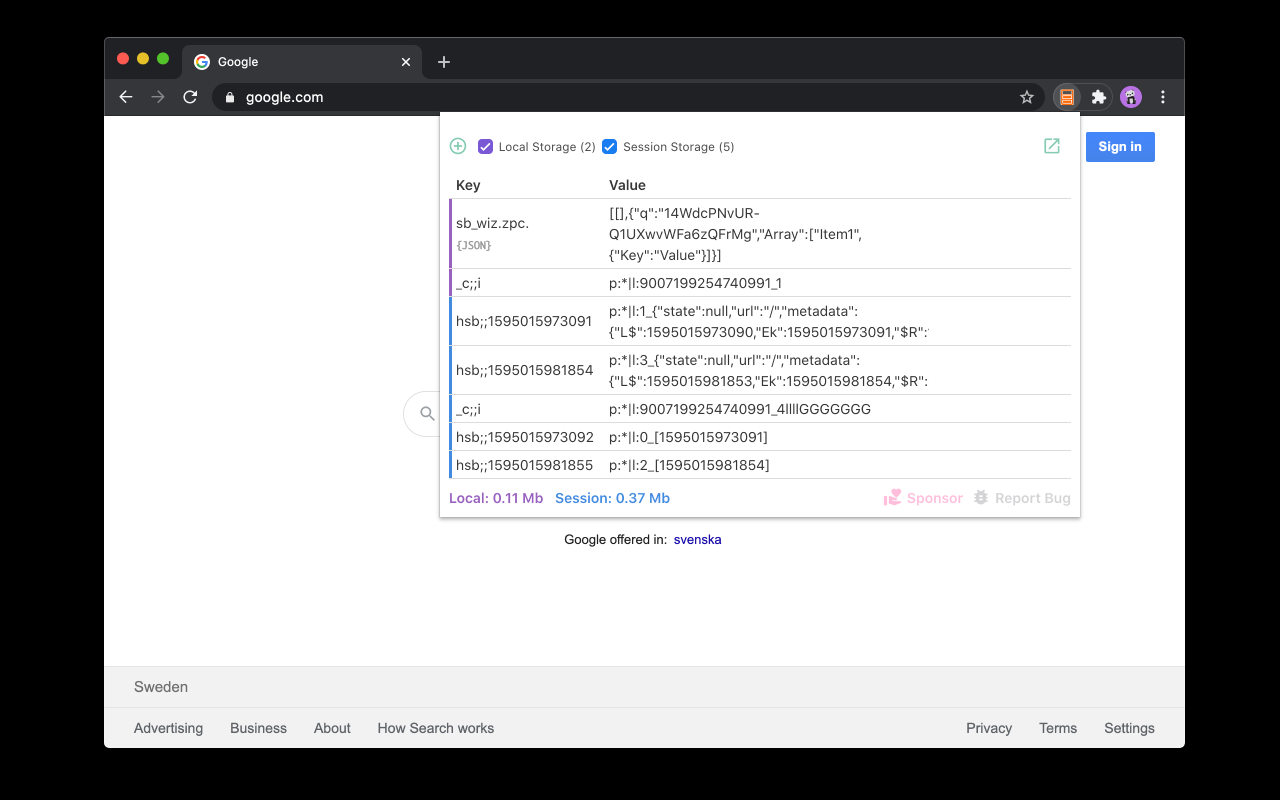
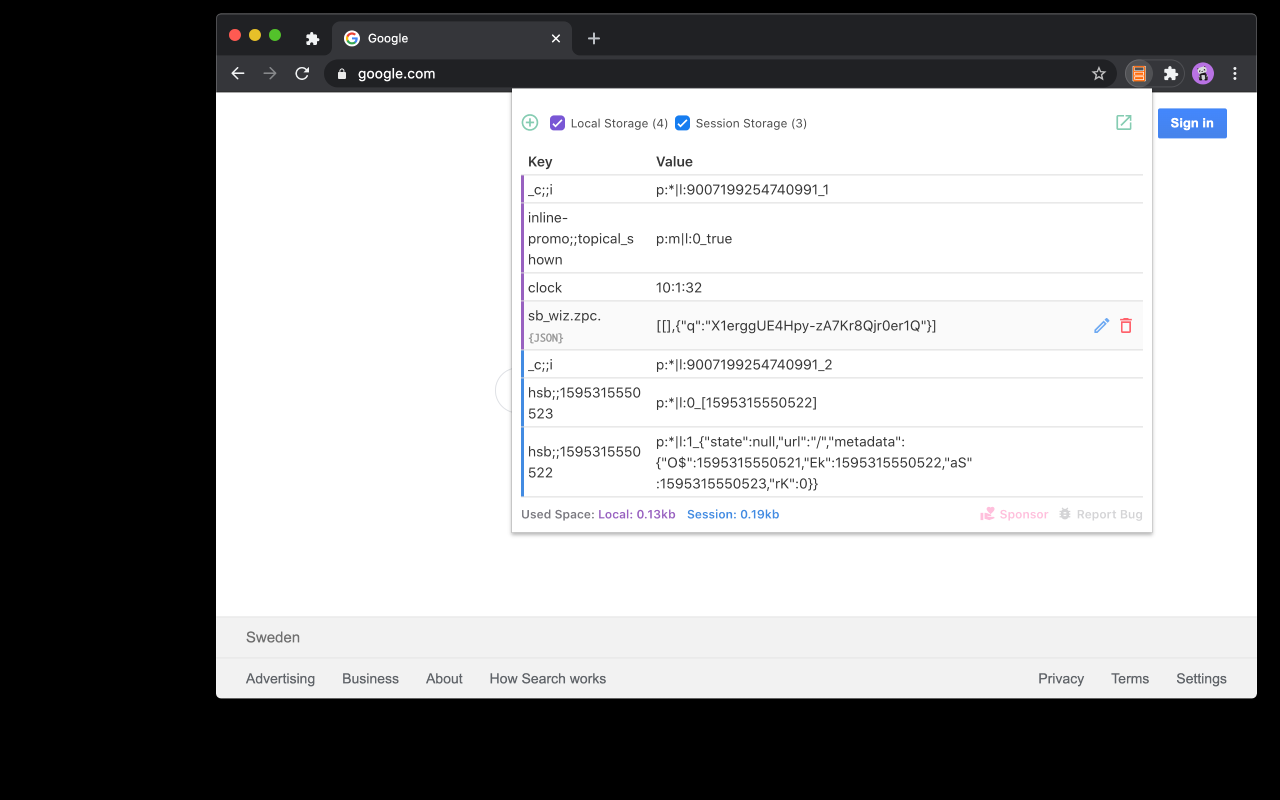
storage, favorite item always on top

Changed region(s): [[0.0625, 0.0, 1.0, 0.9375]]

diff --git a/src/popup/Popup.vue b/src/popup/Popup.vue
@@ -94,6 +94,7 @@
         </span>
       </div>
       <b-table
+        class="mb-8"
         :data="table"
         :striped="false"
         :narrowed="true"
@@ -143,6 +144,25 @@
             :class="`${props.row._type}-${props.row._index}`"
           >
             <div class="flex justify-end">
+              <span
+                class="cursor-pointer text-yellow-600 hover:text-yellow-400 mr-1 group-hover:visible"
+                :class="
+                  favorites[`${props.row._type}_${props.row.key}`]
+                    ? 'visible '
+                    : 'invisible '
+                "
+                v-if="
+                  !isRemoving(props.row.key, props.row._type) &&
+                    !isEditing(props.row.key, props.row._type)
+                "
+              >
+                <component
+                  :is="getFavIcon(props.row.key, props.row._type)"
+                  :size="20"
+                  title="Edit"
+                  @click="toggleFav(props.row.key, props.row._type)"
+                />
+              </span>
               <span
                 class="cursor-pointer text-blue-300 hover:text-blue-600 mr-1 invisible group-hover:visible"
                 v-if="
@@ -209,7 +229,7 @@
           </b-table-column>
         </template>
         <template slot="footer">
-          <div class="flex mt-2 text-xs">
+          <div class="flex text-xs fixed bottom-0 w-full pr-5 py-2 bg-white">
             <div class="items-end" v-if="d.local.length || d.session.length">
               <span class="text-grey-700">Used Space:</span>
               <span class="text-local mr-2" v-if="d.local.length">
@@ -287,6 +307,8 @@ import HeartIcon from "vue-material-design-icons/HandHeart.vue";
 import BugIcon from "vue-material-design-icons/Bug.vue";
 import AddIcon from "vue-material-design-icons/PlusCircleOutline.vue";
 import OpenIcon from "vue-material-design-icons/OpenInNew.vue";
+import StarOutlineIcon from "vue-material-design-icons/StarOutline.vue";
+import StarIcon from "vue-material-design-icons/Star.vue";
 import JsonEditor from "vue-json-editor";
 
 @Component({
@@ -333,6 +355,8 @@ export default class Popup extends Vue {
   ioFix = "";
   origin = "";
   tabId = "";
+  favorites = {};
+  storageLoaded = false;
 
   mounted() {
     // Mock
@@ -342,12 +366,36 @@ export default class Popup extends Vue {
       this.isPopup2 = true;
       this.origin = location.hash.split("|")[1];
       this.tabId = parseInt(location.hash.split("|")[2]);
-      console.log("popup2 opened from origin:", this.origin, "Tab ID:", this.tabId);
+      console.log(
+        "popup2 opened from origin:",
+        this.origin,
+        "Tab ID:",
+        this.tabId
+      );
     }
     try {
-      chrome.runtime.sendMessage({ source: this.isPopup2 ? "popup2" :"popup", event: "mounted" });
+      chrome.runtime.sendMessage({
+        source: this.isPopup2 ? "popup2" : "popup",
+        event: "mounted"
+      });
       chrome.runtime.onConnect.addListener(port => {
         port.onMessage.addListener(msg => {
+          if (!this.origin) {
+            this.origin = msg.origin;
+          }
+          if (!this.storageLoaded) {
+            chrome.storage.sync.get([this.origin], result => {
+              console.log("favorites in storage:", result);
+              if (
+                result &&
+                result[this.origin] &&
+                Object.keys(result[this.origin])
+              ) {
+                this.favorites = result[this.origin];
+              }
+              this.storageLoaded = true;
+            });
+          }
           const query = { active: true, currentWindow: true };
           chrome.tabs.query(query, tabs => {
             if (tabs.length && tabs[0].url) {
@@ -630,30 +678,72 @@ export default class Popup extends Vue {
     }
   }
 
+  getFavIcon(key, type) {
+    if (this.favorites[`${type}_${key}`]) {
+      return StarIcon;
+    }
+    return StarOutlineIcon;
+  }
+
+  toggleFav(key, type) {
+    console.log("fav", key, type);
+    if (this.favorites[`${type}_${key}`]) {
+      this.$delete(this.favorites, `${type}_${key}`);
+    } else {
+      this.$set(this.favorites, `${type}_${key}`, true);
+    }
+    try {
+      const data = {};
+      data[this.origin] = this.favorites;
+      console.log("Set storage:", data);
+      chrome.storage.sync.set(data, function() {
+        console.log("Favorite storage set");
+      });
+    } catch (e) {
+      console.log("Set favorites storage failed:", e);
+    }
+  }
+
   get table() {
     let result = [];
     if (this.checked.includes("local")) {
       result = result.concat(
-        this.d.local.map((item, index) => ({
-          ...item,
-          _type: "local",
-          _json: this.isJSON(item.value),
-          _index: index
-        }))
+        this.d.local
+          .map((item, index) => ({
+            ...item,
+            _type: "local",
+            _json: this.isJSON(item.value),
+            _index: index
+          }))
+          .sort((a, b) => {
+            const A = a.key.toUpperCase();
+            const B = b.key.toUpperCase();
+            return A < B ? -1 : A > B ? 1 : 0;
+          })
       );
     }
 
     if (this.checked.includes("session")) {
       result = result.concat(
-        this.d.session.map((item, index) => ({
-          ...item,
-          _type: "session",
-          _json: this.isJSON(item.value),
-          _index: index
-        }))
+        this.d.session
+          .map((item, index) => ({
+            ...item,
+            _type: "session",
+            _json: this.isJSON(item.value),
+            _index: index
+          }))
+          .sort((a, b) => {
+            const A = a.key.toUpperCase();
+            const B = b.key.toUpperCase();
+            return A < B ? -1 : A > B ? 1 : 0;
+          })
       );
     }
-    return result;
+    return result.sort((a, b) => {
+      const A = this.favorites[`${a._type}_${a.key}`];
+      const B = this.favorites[`${b._type}_${b.key}`];
+      return A && !B ? -1 : !A && B ? 1 : 0;
+    });
   }
 
   get localSize() {

diff --git a/src/style.css b/src/style.css
@@ -35,7 +35,7 @@ td.session, td.local {
 td.session::before, td.local::before {
   content: ' ';
   height: 100%;
-  border-left-width: 3px;
+  border-left-width: 4px;
   position: absolute;
   top: 0;
   left: 0;

diff --git a/README.md b/README.md
@@ -9,9 +9,10 @@ Helps to accelerate web development if you relay on localStorage heavily.
 
 ## Highlight Features
 
-- Realtime (current tab ➜ extension) storage value sync.
+- Realtime storage value sync (current tab ➜ extension popup).
 - JSON-friendly editor.
 - Inspect storage in independent popup window. 
+- Favorite item always on top
 
 ## Playground for Testing
 
